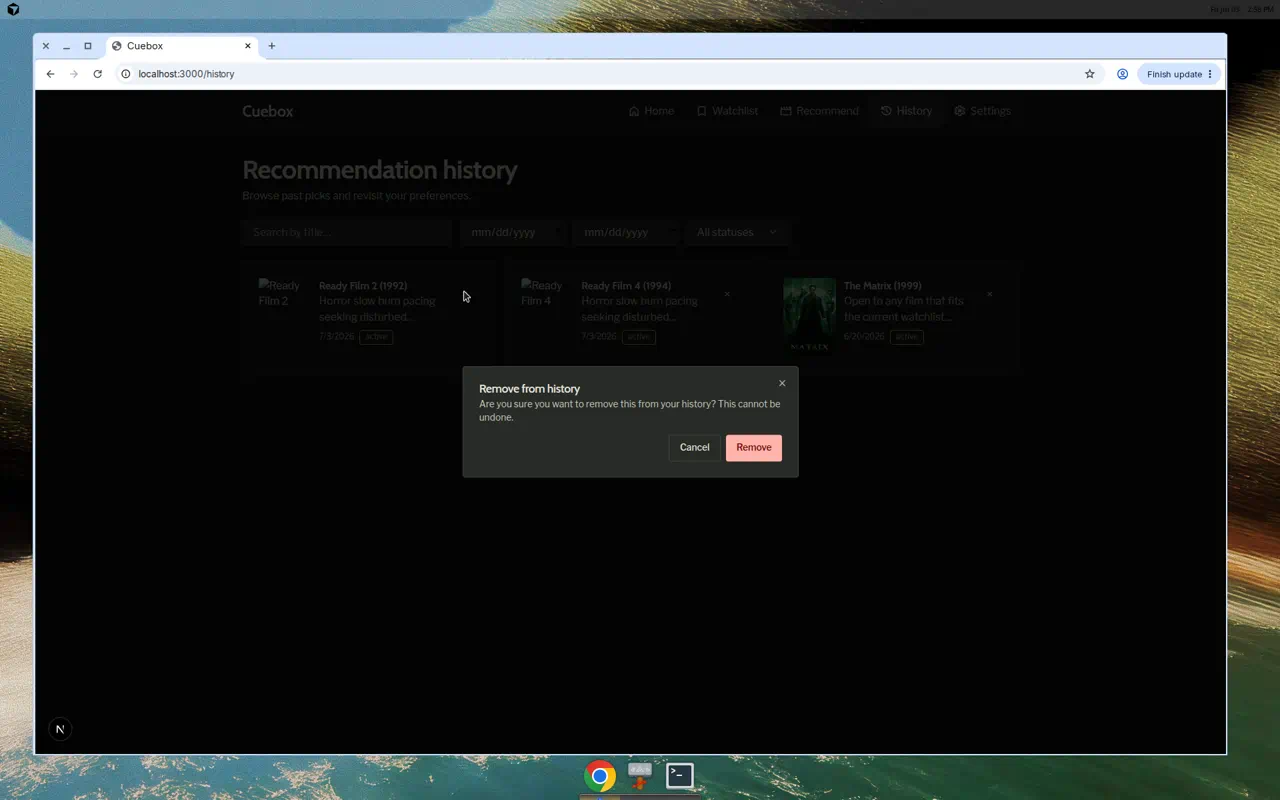
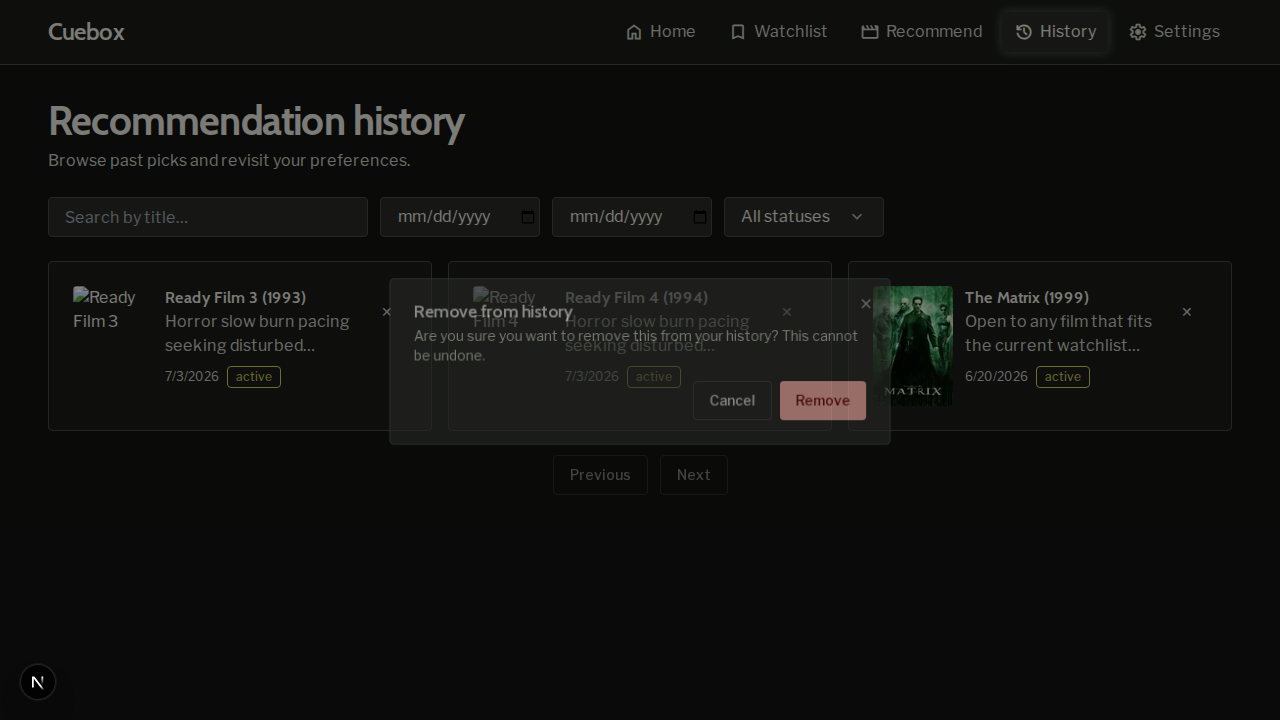
demo(issue-28): refresh hard-delete demo artifacts (scenarios 1-4 pass)

diff --git a/workflow/issues/issue-28/demo/demo-notes.md b/workflow/issues/issue-28/demo/demo-notes.md
@@ -1,71 +1,53 @@
 # Demo notes — issue #28: Hard delete past recommendations
 
 - **Date:** 2026-07-03
-- **Commit:** `8494edbd21801df9bb6defc013890806d2bf7072`
-- **Branch:** `cursor/issue-28-hard-delete-past-recommendations`
-- **Stack:** Docker Compose (postgres, api, frontend, backup) — all Up; health checks OK
-
-## Preconditions
-
-- Seeded 10 ready films via `scripts/seed-dev-db.py` (DB had only 2 films on boot).
-- Created 2 additional recommendation sessions via `POST /api/v1/recommendations` (live OpenAI) so 3 history cards were available for UI scenarios.
-- Home page showed **New recommendation**; `pagination.total >= 1` on history API.
+- **Commit:** `b21322948eb5678a103286278878054a4d882a87` (demo-in-progress state); feature branch `cursor/issue-28-hard-delete-past-recommendations`
+- **Stack:** Full Docker Compose (`postgres`, `api`, `frontend`, `backup`) — health OK on `:3000` and `:8000`
+- **Seed:** Part 2 films present; created additional recommendation sessions via `POST /api/v1/recommendations` for multi-card UI demos
 
 ## Scenario results
 
 ### Scenario 1: Delete from history list — **PASS**
 
-Opened `/history` with 3 cards: *Ready Film 2 (1992)*, *Ready Film 4 (1994)*, *The Matrix (1999)*.
-
-- Trash control visible with `aria-label="Remove from history"`; clicking it did not navigate to detail.
-- Confirmation dialog showed: *"Are you sure you want to remove this from your history? This cannot be undone."*
-- **Cancel** closed dialog; card remained.
-- **Remove** deleted *Ready Film 2* without full page reload; 2 cards remained.
+Opened `/history` with three history cards. Clicked **Remove from history** (✕) on **Ready Film 3**; navigation to detail did not occur. Confirmation dialog showed irreversible warning copy. **Cancel** closed the dialog and left the card visible. Second delete → **Remove** removed the card without a full page reload; **Ready Film 4** and **The Matrix** remained.
 
 | Artifact | Path |
 |----------|------|
 | Before | `scenario-1-history-list-before.png` |
 | Dialog | `scenario-1-confirm-dialog.png` |
 | After | `scenario-1-history-list-after.png` |
-| Recording | `scenario-1-delete-list.mp4` |
+
+![History list before delete](scenario-1-history-list-before.png)
+
+![Confirm dialog](scenario-1-confirm-dialog.png)
+
+![History list after delete](scenario-1-history-list-after.png)
 
 ### Scenario 2: Delete from history detail — **PASS**
 
-- Opened detail for *Ready Film 4 (1994)*; **Remove from history** button visible.
-- Confirmed delete → redirected to `/history`; entry gone; *The Matrix* remained.
+Opened **Ready Film 4** detail from the history list. **Remove from history** → confirm **Remove** redirected to `/history`; **Ready Film 4** no longer listed; **The Matrix** still visible.
 
 | Artifact | Path |
 |----------|------|
 | Detail before | `scenario-2-detail-before.png` |
 | After redirect | `scenario-2-history-after-redirect.png` |
 
+![Detail before delete](scenario-2-detail-before.png)
+
+![History after redirect](scenario-2-history-after-redirect.png)
+
 ### Scenario 3: API delete and exposure reversal — **PASS**
 
-Deleted session `c618464a-c80a-4bbf-8dee-db0ed68f3abb` (*The Matrix*) via API:
+`DELETE /api/v1/recommendations/{session_id}` returned **204**. Detail `GET` returned **404** with `NOT_FOUND`. List excluded the deleted session (`total` 1 → 0).
 
-- `DELETE` → **204**
-- `GET /recommendations/{session_id}` → **404**
-- List `pagination.total` went from 1 → 0; session excluded from `data`.
+See `scenario-3-api-delete.log` for redacted request/response trace.
 
-| Artifact | Path |
-|----------|------|
-| API log | `scenario-3-api-delete.log` |
+### Scenario 4: Failed delete shows error (optional) — **PASS**
 
-### Scenario 4: Failed delete shows error (optional) — **PARTIAL / GAP**
+Loaded `/history` with API up, stopped `api` container, attempted delete from list. Destructive toast **Request failed** / **API request failed: 500 Internal Server Error** appeared; card remained. API restarted afterward.
 
-Stopped API (`docker compose stop api`), attempted delete from history list with API down.
-
-- Entry **remained** in the list (correct).
-- **Error toast did not appear**; dialog stayed open in pending state while requests failed (Next.js proxy 502/500). Screenshot captures the stuck dialog state.
-
-This optional scenario documents a UX gap when the API is fully unreachable — not a blocker for required scenarios 1–3.
-
-| Artifact | Path |
-|----------|------|
-| Error state | `scenario-4-delete-error-toast.png` |
+![Delete error toast](scenario-4-delete-error-toast.png)
 
 ## Summary
 
-Required scenarios **1–3 pass**. Hard delete works from history list, detail page, and API with correct confirmation copy, list updates, redirect, and 204/404 behavior.
-
-Optional scenario 4 reveals missing user-visible error feedback when the API container is stopped (dialog hangs instead of toast + dismiss).
+All required scenarios (1–3) and optional scenario 4 passed against the live stack on branch `cursor/issue-28-hard-delete-past-recommendations`.
